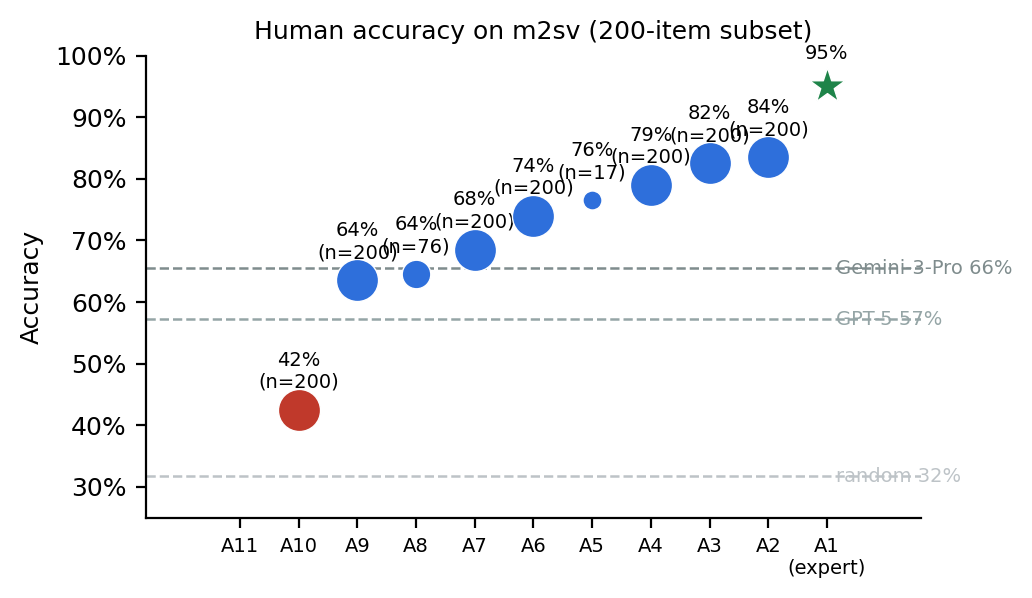
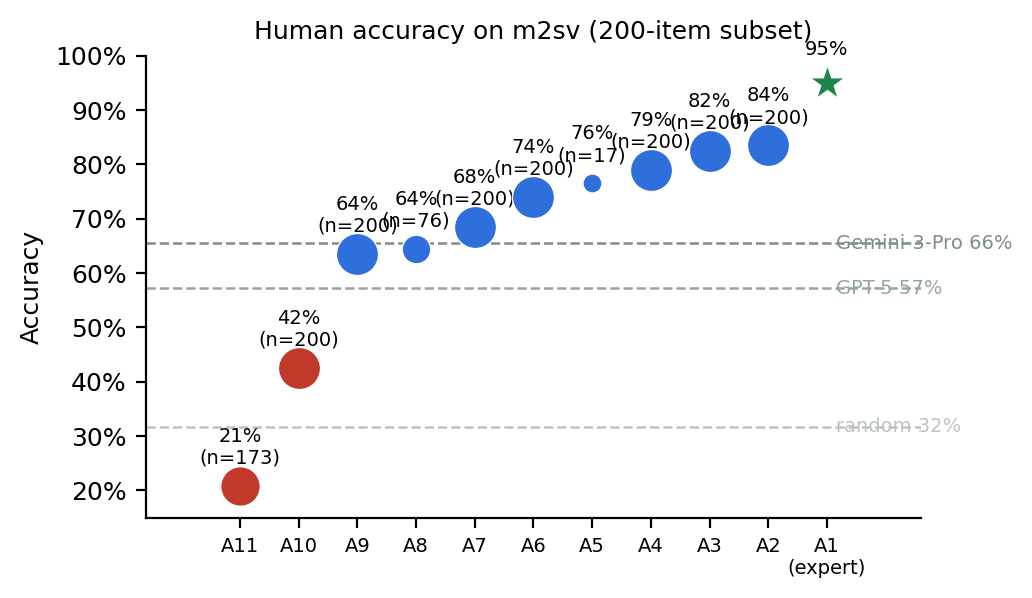
Fix Fig 2 y-axis clipping: lower ylim to 15% so the below-chance dot (A11, 21%) shows
The accuracy-distribution axis started at 25% (lowest tick 30%), hiding A11's
21% point below the frame. Lower ylim to 0.15 / ticks from 20% so both outliers
(and the below-chance result vs the random line) are visible.

Changed region(s): [[0.062, 0.0602, 0.9922, 0.8428], [0.062, 0.1505, 0.155, 0.2107], [0.062, 0.7826, 0.124, 0.8428]]

diff --git a/analysis/human_baseline_figs.py b/analysis/human_baseline_figs.py
@@ -98,8 +98,8 @@ for y, lab, c in [(GEM_ACC, f"Gemini-3-Pro {GEM_ACC:.0%}", "#7f8c8d"),
     ax.text(len(order) + .15, y, lab, va="center", fontsize=7, color=c)
 ax.set_xticks(list(range(len(order))) + [len(order)])
 ax.set_xticklabels([LABEL[e] for e in order] + ["A1\n(expert)"], rotation=0, ha="center", fontsize=7)
-ax.set_ylabel("Accuracy"); ax.set_ylim(0.25, 1.0)
-ax.set_yticks(np.arange(0.3, 1.01, 0.1)); ax.set_yticklabels([f"{int(v*100)}%" for v in np.arange(0.3, 1.01, 0.1)])
+ax.set_ylabel("Accuracy"); ax.set_ylim(0.15, 1.0)
+ax.set_yticks(np.arange(0.2, 1.01, 0.1)); ax.set_yticklabels([f"{int(v*100)}%" for v in np.arange(0.2, 1.01, 0.1)])
 ax.set_title("Human accuracy on m2sv (200-item subset)", fontsize=9)
 ax.margins(x=0.16)
 save(fig, "human_accuracy_dist")
